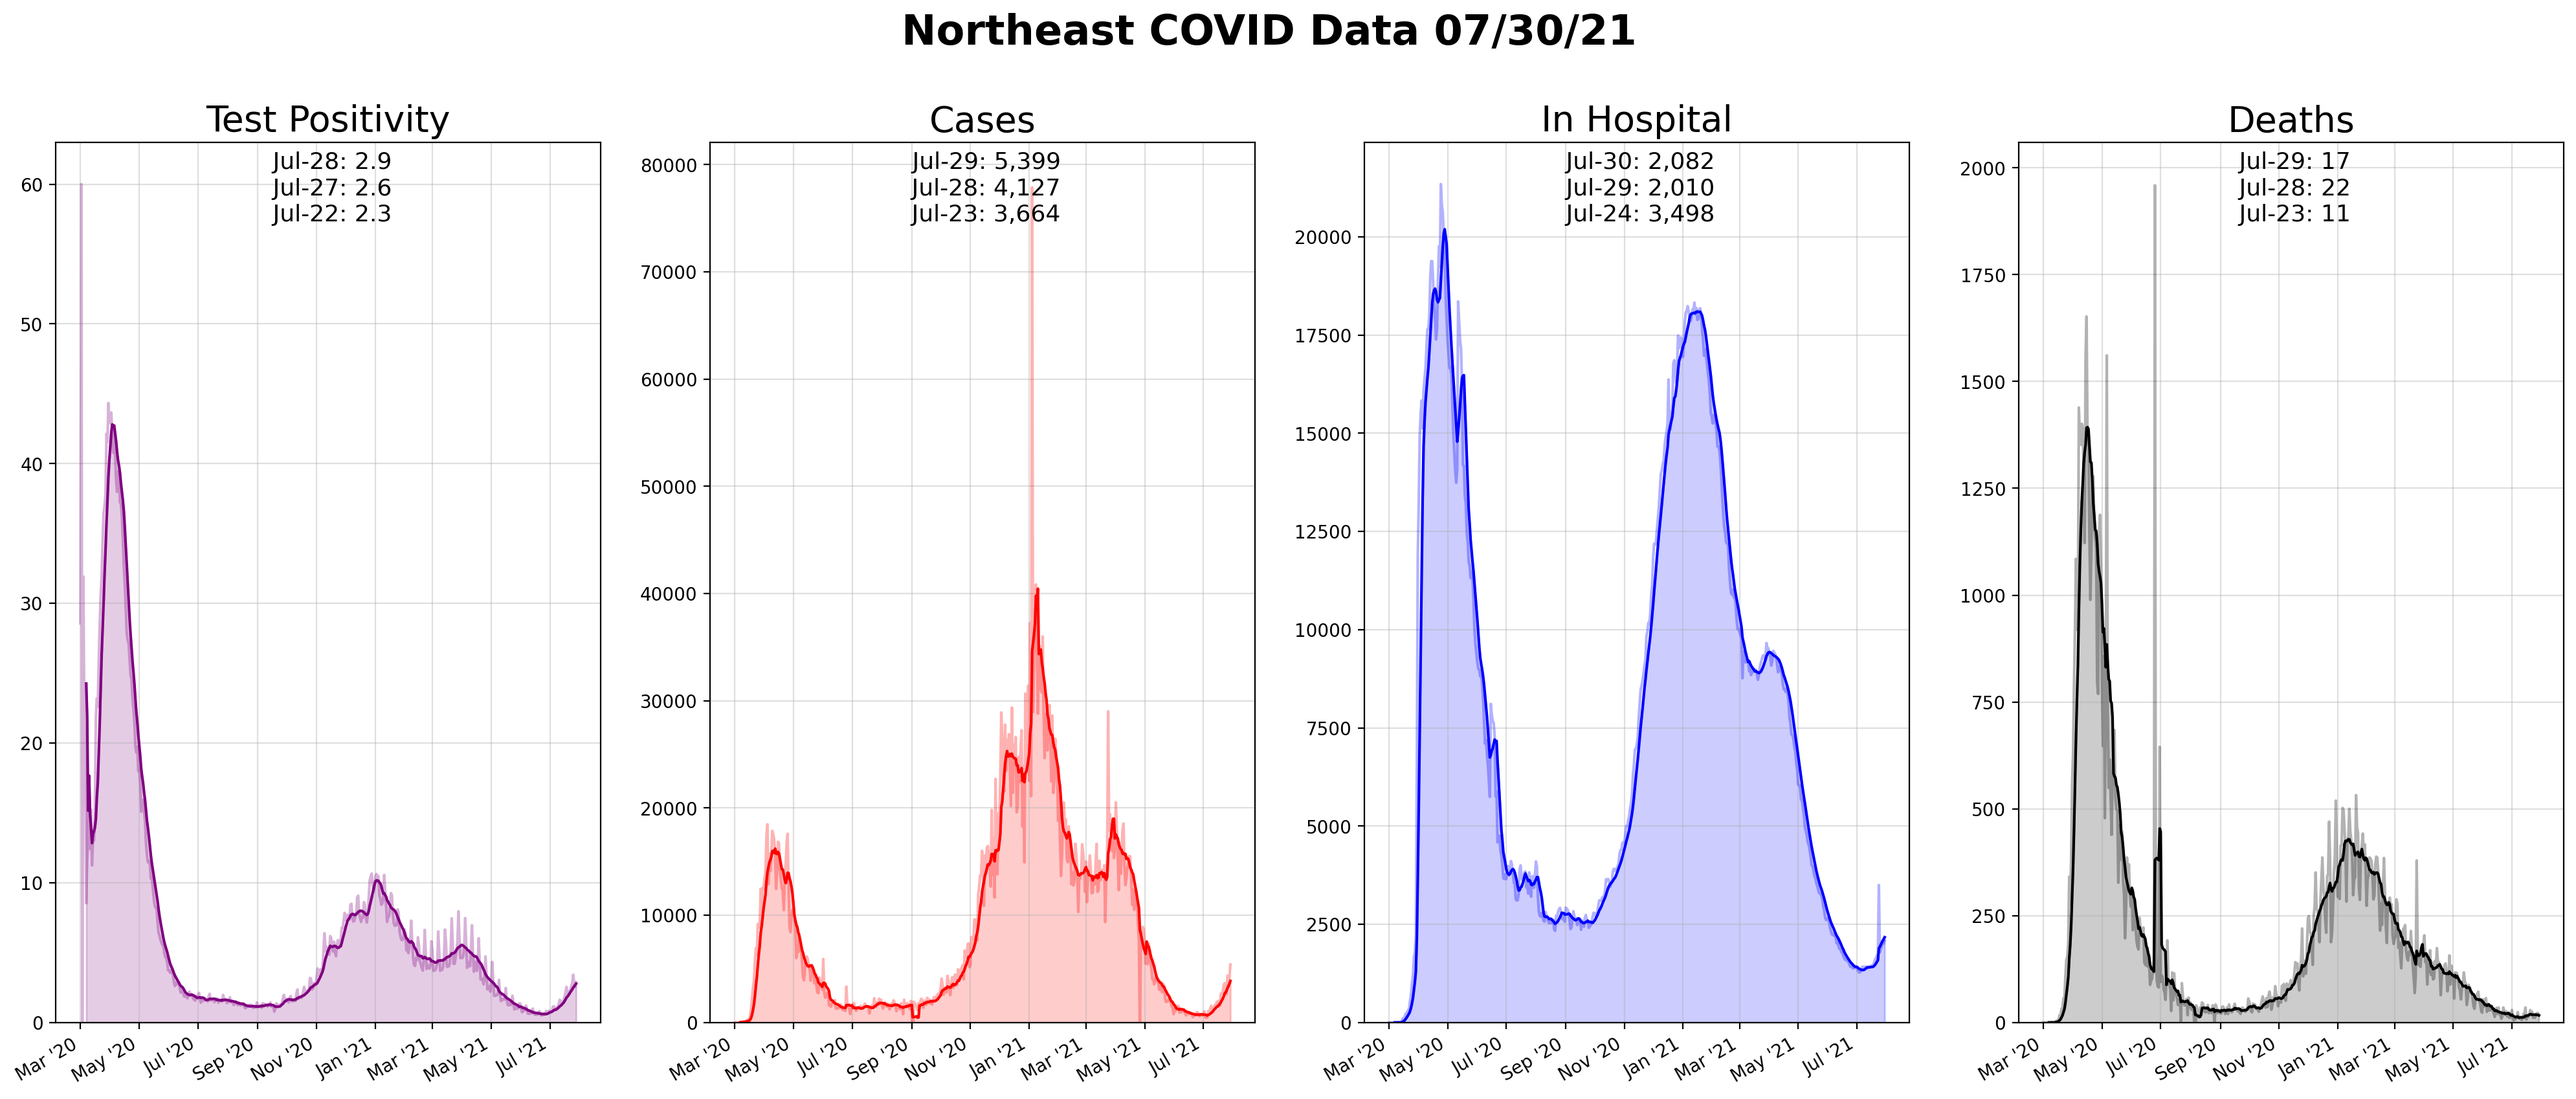
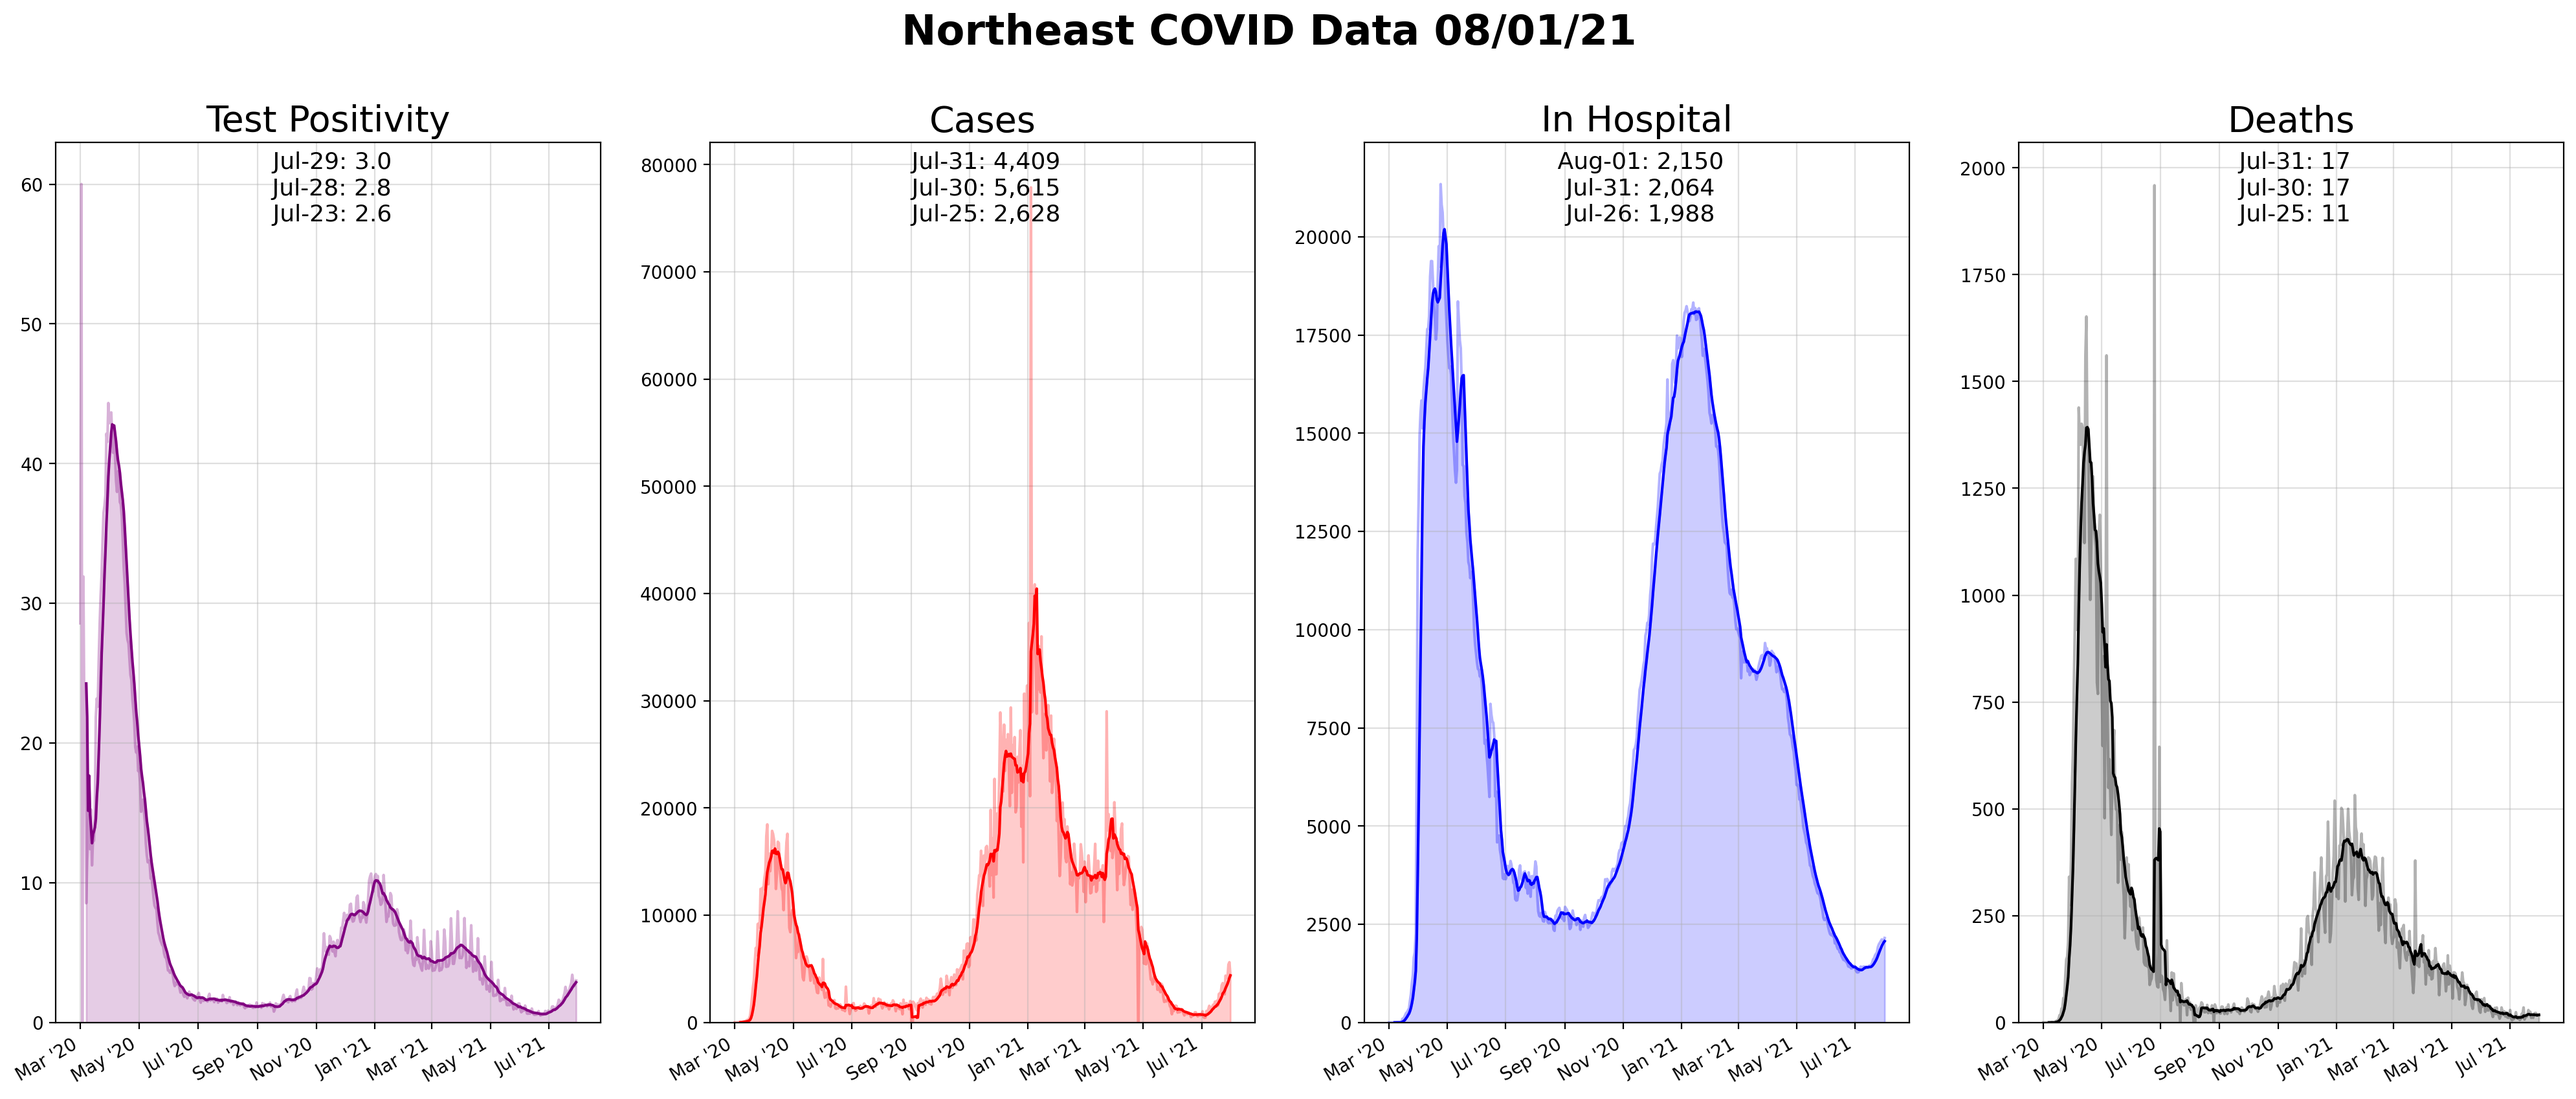
Fixed png issue, added function descriptions

diff --git a/data_viz.py b/data_viz.py
@@ -6,6 +6,7 @@ import data_processing as dp
 import definitions
 import math
 
+
 """
 plot
 Plots data with 7 day average
@@ -42,6 +43,16 @@ def plot(data, ax=None, plot_color="blue", label="", rolling=True, font={ 'size'
     ax.set_ylim(0)
     return ax
 
+
+"""
+plot_graphs
+Plots 4 graphs with 7 day average lines
+-Test positivity, cases, deaths, hospitalizations
+
+region: Region to plot. Regions defined in definitions.py
+start_date: Date to start plot
+end_date: Date to end plot
+"""
 def plot_graphs(region="USA", start_date=pd.Timestamp(2020,3,1), end_date=pd.Timestamp.today()):
     if region == "USA":
         pos = dp.get_us_positivity(start_date, end_date)
@@ -63,14 +74,32 @@ def plot_graphs(region="USA", start_date=pd.Timestamp(2020,3,1), end_date=pd.Tim
     fig.autofmt_xdate()
     fig.suptitle(f"{region} COVID Data {end_date.strftime('%m/%d/%y')}", fontweight="bold", fontsize=23)
     plt.savefig(f"images/graphs/{region}.png", transparent=False, dpi=200, bbox_inches='tight', pad_inches=.1)
+    print(f"LOG: Plotted graphs for {region}")
     plt.close(fig)
 
-def plot_table(data, ax=None, plot_color="blue", rolling=True):
+
+"""
+plot_table
+Plots table of input data. Data must be 3 x 7
+
+data: Dataframe of 3 columns, 7 rows. Extracted in get_table below
+ax: Axis to draw the table on
+plot_color: 2-tuple of the header color, cell color
+"""
+def plot_table(data, ax=None, plot_color=("xkcd:light red", "xkcd:pale pink")):
     ax.axis('off')
     ax.axis('tight')
     #create table
-    table = ax.table(cellText=data.values, colLabels=data.columns, cellLoc='center', loc='center', cellColours=[[plot_color + (.1,)]*3]*6, colColours=[plot_color + (.5,)]*3)
+    table = ax.table(cellText=data.values, colLabels=data.columns, cellLoc='center', loc='center', cellColours=[[plot_color[1]]*3]*7, colColours=[plot_color[0]]*3)
 
+
+"""
+get_table
+Creates table as required in plot_table from dataframe
+
+data: Dataframe of 2 columns: Date and metric (cases, deaths, etc)
+name: Name for metric in table
+"""
 def get_table(data, name="cases"):
     data.iloc[:,1] = data.iloc[:,1].rolling(7).mean()
     maxDate = data['date'].max()
@@ -82,7 +111,11 @@ def get_table(data, name="cases"):
     lst = []
     newRow = {'Date': maxDate.strftime("%m/%d/%y"), name: recentNumFormat, 'Change': '-'}
     lst.append(newRow)
-    for label, daysBack in [("1 wk ago", -7), ("2 wks ago", -14), ("1 mo ago", -30), ("2 mo ago", -60), ("1 yr ago", -365)]:
+    peakRow = data.iloc[:,1].idxmax()
+    peakDate = data.iloc[peakRow].iloc[0]
+    peakDaysBack = (peakDate - maxDate).days
+    peakDateFormat = peakDate.strftime("%m/%d/%y")
+    for label, daysBack in [("1 wk ago", -7), ("2 wks ago", -14), ("1 mo ago", -30), ("2 mo ago", -60), ("1 yr ago", -365), (f"Peak ({peakDateFormat})", peakDaysBack)]:
         newDate = (maxDate + datetime.timedelta(daysBack))
         newNum = data[data.date == newDate].iloc[:,1]
         if(newNum.size == 1):
@@ -103,6 +136,16 @@ def get_table(data, name="cases"):
         lst.append(newRow)
     return pd.DataFrame(lst)
 
+
+"""
+plot_graphs
+Plots 4 tables with 7 day averages for timeframes and peak
+-Test positivity, cases, deaths, hospitalizations
+
+region: Region to plot. Regions defined in definitions.py
+start_date: Date to start plot
+end_date: Date to end plot
+"""
 def plot_tables(region="USA", start_date=pd.Timestamp(2020,1,1), end_date=pd.Timestamp.today()):
     if region == "USA":
         pos = get_table(dp.get_us_positivity(start_date, end_date), name="Test Positivity")
@@ -115,13 +158,12 @@ def plot_tables(region="USA", start_date=pd.Timestamp(2020,1,1), end_date=pd.Tim
         death = get_table(dp.get_state_deaths(definitions.regions[region], start_date, end_date), name="Deaths")
         hosp = get_table(dp.get_state_hospitalizations(definitions.regions[region], start_date, end_date), name="In Hospital")
 
-    fig, axs = plt.subplots(2,2, dpi=250, figsize=[8,3.1])
+    fig, axs = plt.subplots(2,2, dpi=300, figsize=[6.4,3.6], subplot_kw={'fc':'white'})
     plt.subplots_adjust(wspace=0.05, hspace=0, bottom=0)
-    plot_table(case, axs[0][0], plot_color=(.42,.05,.67))
-    plot_table(death, axs[1][0], plot_color=(1,0,0))
-    plot_table(hosp, axs[1][1], plot_color=(0,0,0))
-    plot_table(pos, axs[0][1], plot_color=(0,0,1))
+    plot_table(case, axs[0][0], plot_color=("xkcd:light red", "xkcd:pale pink"))
+    plot_table(death, axs[1][0], plot_color=("xkcd:purplish", "xkcd:light lavender"))
+    plot_table(hosp, axs[1][1], plot_color=("xkcd:steel grey", "xkcd:light grey"))
+    plot_table(pos, axs[0][1], plot_color=("xkcd:sea blue", "xkcd:pale blue"))
     fig.suptitle(f"{region} COVID Data {end_date.strftime('%m/%d/%y')}\n All Numbers are 7-day Rolling Averages", fontweight="bold")
-    fig.patch.set_visible(False)
-    plt.savefig(f"images/tables/{region}.png", transparent=False, bbox_inches='tight', pad_inches=.1)
-    plt.close(fig)
+    plt.savefig(f"images/tables/{region}.png", bbox_inches='tight', pad_inches=.1, facecolor='white')
+    print(f"LOG: Plotted tables for {region}")

diff --git a/data_processing.py b/data_processing.py
@@ -9,6 +9,7 @@ nyt_data_state = pd.read_csv("https://raw.githubusercontent.com/nytimes/covid-19
 client = Socrata("healthdata.gov", None)
 results = client.get("g62h-syeh", limit=2000000)
 test_results = client.get("j8mb-icvb", limit=2000000)
+print("LOG: Fetched all raw data")
 
 # Filter data to get columns of interest
 hhs_data = pd.DataFrame.from_records(results)[['state', 'date', 'inpatient_beds_used_covid']]
@@ -17,6 +18,7 @@ hhs_data = hhs_data.astype({'inpatient_beds_used_covid': 'int32'})
 test_data = pd.DataFrame.from_records(test_results)[['state', 'date', 'overall_outcome', 'new_results_reported']]
 test_data.new_results_reported = test_data.new_results_reported.fillna(0)
 test_data = test_data.astype({'new_results_reported': 'int32'})
+print("LOG: Filtered Data")
 
 # For provisional data, gets days since most recent update of HHS time series
 max_date = hhs_data.date.max()
@@ -36,9 +38,12 @@ for a in hhs_provisional.iterrows():
     url = a[1].item()['url']
     df = pd.read_csv(url)[['state', 'inpatient_beds_used_covid']]
     df['date']=date
-    frames.append(df)
+    if date > pd.Timestamp(max_date): # Avoids double counting if provisional update came after real update
+        frames.append(df)
 frames.append(hhs_data)
 hhs_data = (pd.concat(frames))
+print("LOG: Added HHS Provisional data")
+
 
 # Make date columns in proper format
 # hhs_data.date = hhs_data.date.apply(lambda x: x[:10])
@@ -47,6 +52,8 @@ test_data.date = test_data.date.apply(lambda x: x[:10])
 test_data.date = pd.to_datetime(test_data.date)
 nyt_data_us.date = pd.to_datetime(nyt_data_us.date)
 nyt_data_state.date = pd.to_datetime(nyt_data_state.date)
+print("LOG: Done getting data")
+
 
 """
 get_state_cases

diff --git a/post_tweets.py b/post_tweets.py
@@ -19,13 +19,8 @@ auth = tweepy.OAuthHandler(api_key, api_secret_key)
 auth.set_access_token(access_token, access_token_secret)
 api = tweepy.API(auth)
 
-# media1 = api.media_upload("./images/graphs/USA.png")
-# media2 = api.media_upload("./images/tables/USA.png")
-# print(api.update_status("Test", media_ids=[media1.media_id, media2.media_id]))
-
-# regions_to_post = definitions.regions.keys()
-regions_to_post = ["USA"]
-lastTweet = api.update_status(f"COVID Daily Update - {datetime.date.today().strftime('%m/%d/%y')}\n\nSources:\nHHS - Hospitalizations and tests\nNYT - Cases and deaths\nUntil Twitter trusts me, can only post US data") 
+regions_to_post = definitions.regions.keys()
+lastTweet = api.update_status(f"COVID Daily Update - {datetime.date.today().strftime('%m/%d/%y')}\n\nSources:\nHHS - Hospitalizations and tests\nNYT - Cases and deaths") 
 for region in regions_to_post:
     media1 = api.media_upload(f"./images/graphs/{region}.png")
     media2 = api.media_upload(f"./images/tables/{region}.png")

diff --git a/generate_graphs.py b/generate_graphs.py
@@ -1,5 +1,8 @@
 import data_viz as dv
 import definitions
+import matplotlib
+
+print(matplotlib.matplotlib_fname())
 
 # Generates files for all regions, current date
 for region in definitions.regions.keys():
